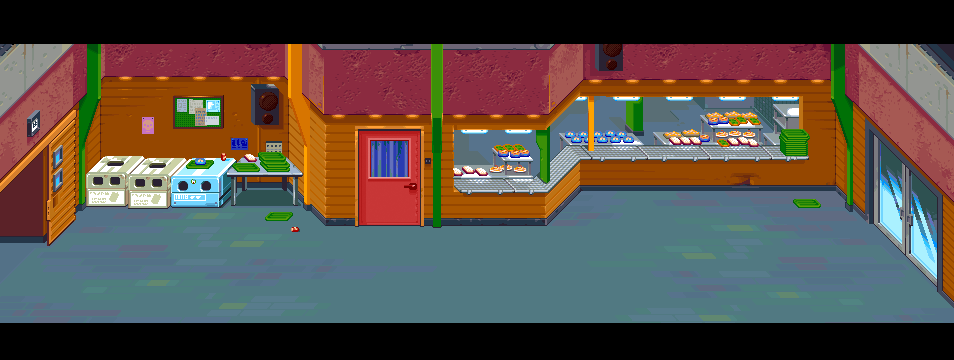
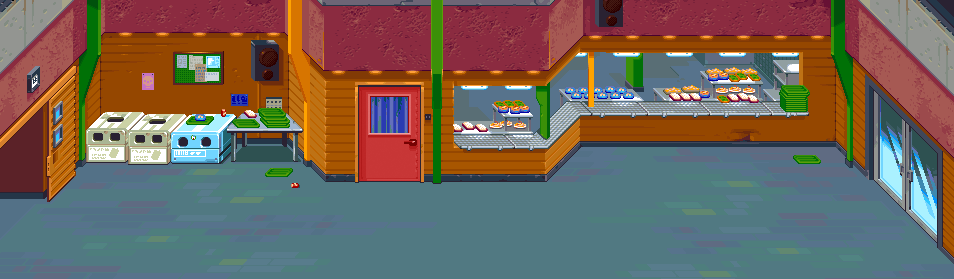
스테이지 2 작업 시작

diff --git a/RiverCityGirls/StageManager.cpp b/RiverCityGirls/StageManager.cpp
@@ -7,24 +7,24 @@
 
 void StageManager::init()
 {
-	Stage* Stage_1 = new StartStage;
-	Stage_1->setStageManager(this);
-	Stage_1->setPlayer(_player);
-	Stage_1->init(IMAGE_MANAGER->findImage("STAGE_1"), 3);
+	Stage* stage_1 = new StartStage;
+	stage_1->setStageManager(this);
+	stage_1->setPlayer(_player);
+	stage_1->init(IMAGE_MANAGER->findImage("STAGE_1"), 3);
 
-	_stageMap["START_STAGE"] = Stage_1;
+	_stageMap["START_STAGE"] = stage_1;
 
-	Stage* Stage_2 = new MiddleStage;
-	Stage_2->setStageManager(this);
-	Stage_2->setPlayer(_player);
-	Stage_2->init(IMAGE_MANAGER->findImage("STAGE_1"), 3);
-	_stageMap["MIDDLE_STAGE"] = Stage_2;
+	Stage* stage_2 = new MiddleStage;
+	stage_2->setStageManager(this);
+	stage_2->setPlayer(_player);
+	stage_2->init(IMAGE_MANAGER->findImage("STAGE_2"), 3);
+	_stageMap["MIDDLE_STAGE"] = stage_2;
 
-	Stage* Stage_3 = new BossStage;
-	Stage_3->setStageManager(this);
-	Stage_3->setPlayer(_player);
-	Stage_3->init(IMAGE_MANAGER->findImage("STAGE_1"), 3);
-	_stageMap["BOSS_STAGE"] = Stage_3;
+	Stage* stage_3 = new BossStage;
+	stage_3->setStageManager(this);
+	stage_3->setPlayer(_player);
+	stage_3->init(IMAGE_MANAGER->findImage("STAGE_1"), 3);
+	_stageMap["BOSS_STAGE"] = stage_3;
 
 	_currStage = _stageMap["START_STAGE"];
 	_currStage->enter();
@@ -46,6 +46,7 @@ void StageManager::update()
 	if (newStage != nullptr)
 	{
 		_currStage = newStage;
+		_currStage->enter();
 	}
 }
 

diff --git a/RiverCityGirls/StartStage.cpp b/RiverCityGirls/StartStage.cpp
@@ -43,14 +43,14 @@ void StartStage::init(Image * background, float bgScale)
 
 	tagDoorInfo door;
 	door.doorState = DOOR_STATE::UNLOCK;
-	door.pos = Vector3(500, 0, 500);
+	door.pos = Vector3(1430, -200, 420);
 	_doorInfos.push_back(door);
 	
 }
 
 void StartStage::enter()
 {
-	_stageManager->setDoorInfo(_doorInfos);
+	Stage::enter();
 }
 
 void StartStage::exit()
@@ -63,7 +63,7 @@ Stage * StartStage::update()
 	for (int i = 0; i < _doorInfos.size(); i++)
 	{
 		if (_doorInfos[i].doorState == DOOR_STATE::LOCK) continue;
-		if (Vector3::distance(_doorInfos[i].pos, _player->getPosition()) < 100)
+		if (Vector3::distance(_doorInfos[i].pos, _player->getPosition()) < 150)
 		{
 			if (KEY_MANAGER->isStayKeyDown('Z'))
 			{
